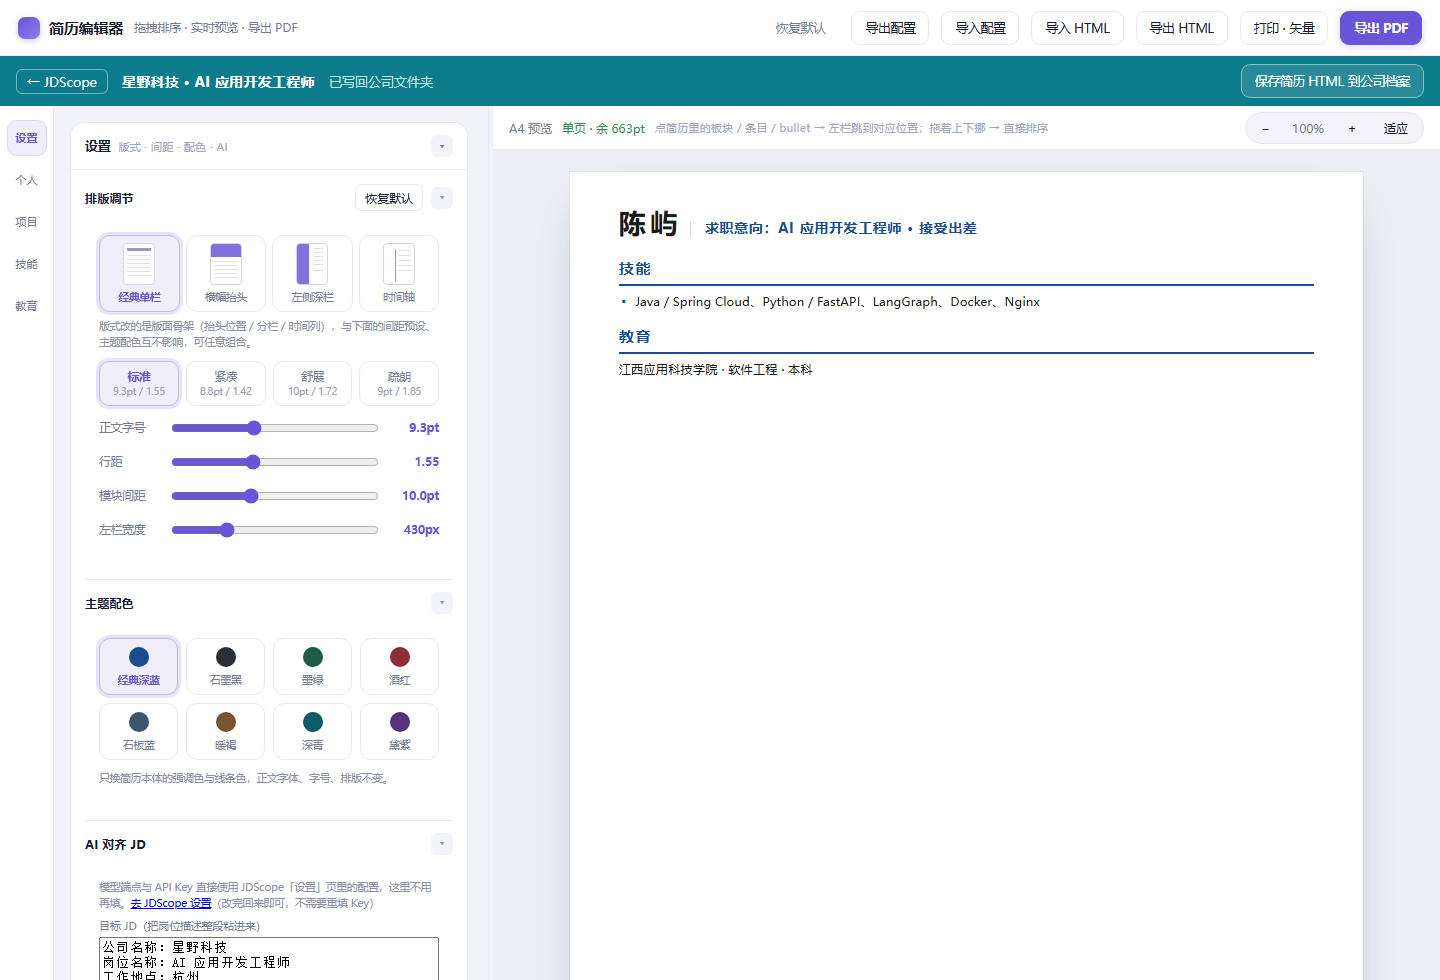
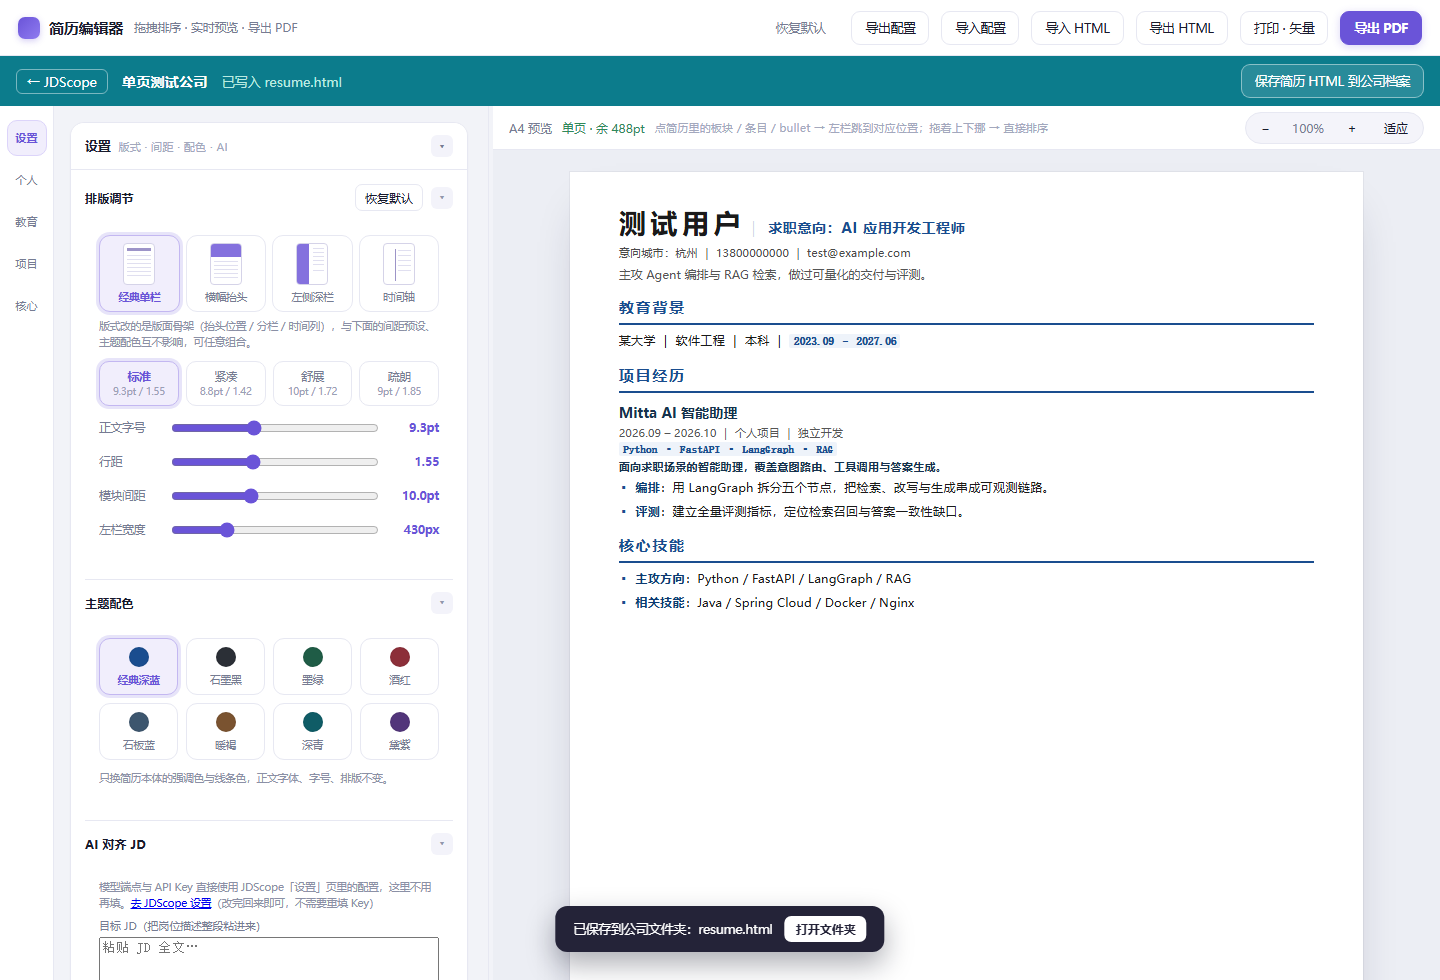
feat: 打印空白页修复、岗位信息编辑与导出后打开文件夹

diff --git a/app/web/js/pages/jobs.js b/app/web/js/pages/jobs.js
@@ -13,7 +13,9 @@ export const Jobs = {
   setup() {
     const s = state;
     const report = ref(null);
-    const busy = ref({ analyze: false, suggest: false, export: false, batch: 0, company: false });
+    const busy = ref({ analyze: false, suggest: false, export: false, batch: 0, company: false, edit: false });
+    const editing = ref(false);
+    const form = ref({ company: "", title: "", city: "", source: "", url: "" });
 
     let timer = null;
     watch(() => s.jobQuery, () => {
@@ -58,6 +60,47 @@ export const Jobs = {
         await loadBoot();
         await loadJobs();
       } catch (err) { toast(err.message, "err"); }
+    };
+
+    const startEdit = () => {
+      const job = s.detail.job;
+      form.value = {
+        company: job.company || "",
+        title: job.title || "",
+        city: job.city || "",
+        source: job.source || "",
+        url: job.url || "",
+      };
+      editing.value = true;
+    };
+
+    const cancelEdit = () => { editing.value = false; };
+
+    const toggleEdit = () => { if (editing.value) editing.value = false; else startEdit(); };
+
+    const saveEdit = async () => {
+      const id = s.detail.job.id;
+      const f = form.value;
+      if (!f.company.trim() || !f.title.trim()) {
+        toast("公司名和岗位名不能为空", "err");
+        return;
+      }
+      busy.value.edit = true;
+      try {
+        await api.updateJob(id, {
+          company: f.company.trim(),
+          title: f.title.trim(),
+          city: f.city.trim(),
+          source: f.source.trim(),
+          url: f.url.trim(),
+        });
+        editing.value = false;
+        await openJob(id);
+        await loadJobs();
+        await loadBoot();
+        toast("岗位信息已更新", "ok");
+      } catch (err) { toast(err.message, "err"); }
+      finally { busy.value.edit = false; }
     };
 
     const reanalyze = async () => {
@@ -150,6 +193,7 @@ export const Jobs = {
 
     const open = async (id) => {
       report.value = null;
+      editing.value = false;
       try { await openJob(id); } catch (err) { toast(err.message, "err"); }
     };
 
@@ -163,9 +207,10 @@ export const Jobs = {
     onBeforeUnmount(() => document.removeEventListener("keydown", onKey));
 
     return {
-      s, report, busy, missingOf, dimList, reqGroups, coverage,
+      s, report, busy, editing, form, missingOf, dimList, reqGroups, coverage,
       STATUS_LABEL, PRIO_LABEL, STATE_LABEL, chipOf, pct, shortDate,
-      setStatus, reanalyze, reanalyzeAll, suggest, exportReport, remove, adopt, open, closeDetail,
+      setStatus, startEdit, cancelEdit, toggleEdit, saveEdit,
+      reanalyze, reanalyzeAll, suggest, exportReport, remove, adopt, open, closeDetail,
       makeCompany,
     };
   },
@@ -244,6 +289,32 @@ export const Jobs = {
         </div>
 
         <div class="drawer-body">
+          <div v-if="editing" class="edit-panel">
+            <div class="section-title" style="margin-top:0">修改岗位信息</div>
+            <div class="form-grid">
+              <label class="field">公司名
+                <input v-model="form.company" placeholder="公司名称">
+              </label>
+              <label class="field">岗位名
+                <input v-model="form.title" placeholder="如 AI 应用开发工程师">
+              </label>
+              <label class="field">城市
+                <input v-model="form.city" placeholder="如 杭州">
+              </label>
+              <label class="field">来源
+                <input v-model="form.source" placeholder="官网 / BOSS / 内推">
+              </label>
+              <label class="field span2">链接
+                <input v-model="form.url" placeholder="岗位链接（可选）">
+              </label>
+            </div>
+            <div class="row-gap" style="margin-top:12px">
+              <button class="primary" @click="saveEdit" :disabled="busy.edit">{{ busy.edit ? '保存中…' : '保存修改' }}</button>
+              <button class="ghost" @click="cancelEdit" :disabled="busy.edit">取消</button>
+              <span class="hint">只改元信息，不会重算 JD 需求；改岗位名不会重命名已建的公司文件夹。</span>
+            </div>
+          </div>
+
           <div class="dims">
             <div class="dim" v-for="d in dimList" :key="d.key">
               <div class="k">{{ d.label }}</div>
@@ -261,6 +332,7 @@ export const Jobs = {
           </div>
 
           <div class="row-gap mt12">
+            <button class="ghost" @click="toggleEdit">{{ editing ? '收起编辑' : '编辑信息' }}</button>
             <select :value="s.detail.job.status" style="width:132px" @change="setStatus($event.target.value)">
               <option v-for="(label, key) in STATUS_LABEL" :key="key" :value="key">{{ label }}</option>
             </select>

diff --git a/app/web/editor/index.html b/app/web/editor/index.html
@@ -373,9 +373,13 @@ body.printing #page h3,body.printing #page h3:hover{background:transparent!impor
 
 /* 提示条 */
 .toast{position:fixed;left:50%;bottom:28px;transform:translateX(-50%) translateY(20px);
+  display:flex;align-items:center;gap:12px;max-width:min(760px,90vw);
   background:#242338;color:#fff;font-size:12.5px;padding:10px 18px;border-radius:12px;opacity:0;
   pointer-events:none;transition:.25s;z-index:20;box-shadow:0 12px 28px rgba(16,18,36,.34)}
 .toast.show{opacity:1;transform:translateX(-50%) translateY(0)}
+.toast .act{pointer-events:auto;flex:none;border:0;border-radius:7px;padding:5px 11px;
+  background:#fff;color:#242338;font-size:12px;font-weight:650;cursor:pointer}
+.toast .act:hover{background:#e8f4f6;color:#0c7c8c}
 
 /* 打印：只输出 A4 页面 */
 @media (max-width:1100px){
@@ -387,7 +391,7 @@ body.printing #page h3,body.printing #page h3:hover{background:transparent!impor
 }
 @media print{
   @page{size:A4;margin:0}
-  html,body{margin:0!important;padding:0!important;background:#fff}
+  html,body{margin:0!important;padding:0!important;background:#fff;height:auto!important;min-height:0!important}
   body{overflow:visible}
   /* 浏览器默认不打印背景色，技术栈底条会整条消失；对页面内所有节点强制保留底色 */
   .page,.page *{-webkit-print-color-adjust:exact;print-color-adjust:exact}
@@ -396,7 +400,10 @@ body.printing #page h3,body.printing #page h3:hover{background:transparent!impor
   .preview{background:#fff;display:block;overflow:visible;height:auto;padding:0}
   .pv-scroll{padding:0;overflow:visible;display:block;cursor:auto}
   .page-wrap{transform:none!important;width:auto!important;height:auto!important;margin:0!important}
-  .page{position:static!important;transform:none!important;box-shadow:none!important;margin:0;width:210mm;max-width:210mm}
+  /* 关键：屏幕上的 min-height:297mm 只用于撑出整页观感；打印时它会让 A4 盒子正好顶到页底，
+     浏览器按 0.1px 的舍入差判成溢出，于是多一张空白页。打印必须交还给内容自身高度。 */
+  .page{position:static!important;transform:none!important;box-shadow:none!important;margin:0;
+    width:210mm;max-width:210mm;min-height:0!important;height:auto!important;break-after:auto;page-break-after:auto}
   /* 打印瞬间鼠标可能恰好压在纸面上：hover 底色一律不许进 PDF */
   .page .r-sec,.page .r-sec:hover,.page li,.page li:hover,
   .page h3,.page h3:hover{background:transparent!important;cursor:auto}
@@ -862,12 +869,26 @@ function mdInline(text){
 function richText(text){
   return mdInline(text);
 }
-function toast(msg){
+function toast(msg, action){
   const el = document.getElementById('toast');
-  el.textContent = msg;
+  el.innerHTML = '';
+  const span = document.createElement('span');
+  span.textContent = msg;
+  el.appendChild(span);
+  if(action && action.label && typeof action.onClick === 'function'){
+    const btn = document.createElement('button');
+    btn.type = 'button';
+    btn.className = 'act';
+    btn.textContent = action.label;
+    btn.addEventListener('click', (e)=>{
+      e.stopPropagation();
+      action.onClick();
+    });
+    el.appendChild(btn);
+  }
   el.classList.add('show');
   clearTimeout(el._t);
-  el._t = setTimeout(()=> el.classList.remove('show'), 1900);
+  el._t = setTimeout(()=> el.classList.remove('show'), action ? 5200 : 1900);
 }
 function setPath(path, val){
   const parts = path.split('.');
@@ -3134,6 +3155,16 @@ applyZoom();
     save();
   }
 
+  const openCompanyFolder = async ()=>{
+    try{
+      const r = await fetch('/api/companies/' + COMPANY_ID + '/open', { method:'POST' });
+      const j = await r.json().catch(()=>({}));
+      if(!r.ok || j.error) toast('打不开文件夹：' + (j.error || ('HTTP ' + r.status)));
+    }catch(e){
+      toast('打不开文件夹：' + e.message);
+    }
+  };
+
   document.getElementById('btnCompanyExport').addEventListener('click', async ()=>{
     const btn = document.getElementById('btnCompanyExport');
     btn.disabled = true;
@@ -3146,7 +3177,8 @@ applyZoom();
       const j = await r.json().catch(()=>({}));
       if(r.ok && !j.error){
         setSyncState('已写入 resume.html', 'ok');
-        toast('已保存到公司文件夹：resume.html');
+        toast('已保存到公司文件夹：resume.html',
+          { label:'打开文件夹', onClick: openCompanyFolder });
       }else{
         setSyncState('导出失败：' + (j.error || r.status), 'err');
         toast('导出失败：' + (j.error || ('HTTP ' + r.status)));

diff --git a/app/web/css/app.css b/app/web/css/app.css
@@ -306,6 +306,11 @@ td.num { font-variant-numeric: tabular-nums; }
 }
 .drawer-close:hover { border-color: var(--accent); color: var(--accent); }
 .drawer-body { overflow-y: auto; padding: 16px 20px 40px; }
+.edit-panel {
+  margin-bottom: 18px; padding: 0 16px 16px;
+  background: #f7f9fa; border: 1px solid var(--line); border-radius: 10px;
+}
+.edit-panel .form-grid { padding-left: 0; padding-right: 0; }
 
 .section-title {
   display: flex; align-items: center; gap: 8px;

diff --git a/tests/test_job_edit.py b/tests/test_job_edit.py
@@ -1,0 +1,82 @@
+"""岗位详情编辑：公司名 / 岗位名等元信息可改，空值拒绝。"""
+
+from __future__ import annotations
+
+import os
+import shutil
+import sys
+import tempfile
+import unittest
+from pathlib import Path
+
+ROOT = Path(__file__).resolve().parent.parent
+sys.path.insert(0, str(ROOT))
+
+from app import config, db  # noqa: E402
+
+
+class FakeMatch:
+    def __init__(self, path: str):
+        self.path = path
+
+    def group(self, _n=0):
+        return self.path
+
+
+class TestJobEdit(unittest.TestCase):
+    def setUp(self):
+        self._saved = {k: os.environ.get(k) for k in ("JDSCOPE_CONFIG", "JDSCOPE_HOME")}
+        self._tmp = tempfile.mkdtemp(prefix="jdscope-jedit-")
+        os.environ["JDSCOPE_CONFIG"] = self._tmp
+        os.environ.pop("JDSCOPE_HOME", None)
+        from app.api import Api
+
+        config.ensure_dirs(config.data_home())
+        self.api = Api()
+        conn = db.connect()
+        try:
+            self.job_id = conn.execute(
+                "INSERT INTO jobs(company,title,city,url,jd_raw,status,decision,score,score_json,"
+                "constraint_state,verdict,created_at,updated_at) VALUES(?,?,?,?,?,?,?,?,?,?,?,?,?)",
+                ("旧公司", "旧岗位", "南昌", "https://example.com/old",
+                 "岗位职责：负责 Agent 应用开发。\n任职要求：熟悉 Python。",
+                 "new", "go", 70.0, "{}", "[]", "建议投", db.now(), db.now()),
+            ).lastrowid
+            conn.commit()
+        finally:
+            conn.close()
+
+    def tearDown(self):
+        for key, value in self._saved.items():
+            if value is None:
+                os.environ.pop(key, None)
+            else:
+                os.environ[key] = value
+        shutil.rmtree(self._tmp, ignore_errors=True)
+
+    def test_patch_company_title_and_meta(self):
+        out = self.api.patch_job(
+            FakeMatch(f"/api/jobs/{self.job_id}"),
+            {"company": " 新公司 ", "title": " Agent 工程师 ", "city": "杭州",
+             "source": "内推", "url": "https://example.com/new"},
+            None,
+        )
+        self.assertTrue(out.get("ok"))
+        detail = self.api.job_detail(FakeMatch(f"/api/jobs/{self.job_id}"), None, None)
+        self.assertEqual(detail["job"]["company"], "新公司")
+        self.assertEqual(detail["job"]["title"], "Agent 工程师")
+        self.assertEqual(detail["job"]["city"], "杭州")
+        self.assertEqual(detail["job"]["source"], "内推")
+        self.assertEqual(detail["job"]["url"], "https://example.com/new")
+
+    def test_blank_company_or_title_rejected(self):
+        out = self.api.patch_job(FakeMatch(f"/api/jobs/{self.job_id}"),
+                                 {"company": "   ", "title": "新岗位"}, None)
+        self.assertIn("error", out)
+        detail = self.api.job_detail(FakeMatch(f"/api/jobs/{self.job_id}"), None, None)
+        self.assertEqual(detail["job"]["company"], "旧公司")
+        self.assertEqual(detail["job"]["title"], "旧岗位")
+
+
+if __name__ == "__main__":
+    unittest.main()

diff --git a/app/api.py b/app/api.py
@@ -412,10 +412,16 @@ class Api:
         job_id = int(m.group(0).split("/")[-1])
         conn = self._conn()
         try:
-            allowed = {"status", "decision", "decision_note", "city", "url", "source"}
+            allowed = {"company", "title", "status", "decision", "decision_note",
+                       "city", "url", "source"}
+            for k in ("company", "title"):
+                if k in body and not str(body[k] or "").strip():
+                    return {"error": "公司名和岗位名不能为空"}
             for k in list(body):
                 if k in allowed:
-                    conn.execute(f"UPDATE jobs SET {k}=?, updated_at=? WHERE id=?", (body[k], db.now(), job_id))
+                    value = str(body[k]).strip() if isinstance(body[k], str) else body[k]
+                    conn.execute(f"UPDATE jobs SET {k}=?, updated_at=? WHERE id=?",
+                                 (value, db.now(), job_id))
             conn.commit()
             return {"ok": True}
         finally:

diff --git a/app/config.py b/app/config.py
@@ -21,7 +21,7 @@ import sys
 from pathlib import Path
 
 APP_NAME = "JDScope"
-APP_VERSION = "0.3.1"
+APP_VERSION = "0.3.2"
 
 # 仓库内的静态资源根目录（打包后为 PyInstaller 解包目录）
 BASE_DIR = Path(getattr(sys, "_MEIPASS", Path(__file__).resolve().parent.parent))

diff --git a/README.md b/README.md
@@ -55,6 +55,7 @@ JDScope 只做中间这一层：**决策层**。
 | 交付物 | 一键生成 Markdown 报告：结论 / 四维 / 选型理由 / 关键词覆盖 / 缺口 / 改动摘要 / 面试提示 |
 | 可选模型 | OpenAI 兼容端点（默认 DeepSeek），用于改写建议与面试应答口径；不配置也能用 |
 | AI 只出候选 | JD 入库的 AI 解析、改写建议、面试口径都先把条目摆出来，**勾选/点「采用」才入库**；没勾的不参与打分，也不改台账 |
+| 岗位信息可改 | 详情抽屉里点「编辑信息」可改公司名、岗位名、城市、来源与链接，保存后列表与详情同步刷新；空公司名 / 空岗位名会被拒绝 |
 | 一条龙 | 岗位详情 →「建公司档案 / 改简历」→ 内嵌编辑器（自动带上 JD、策略与基底）→ 导出 HTML 回公司文件夹 |
 | 简历工作台 | 侧栏常驻入口，直接打开 `resumes/_通用简历/` 的母版；不属于任何公司，随时改、随时导出，也是各公司定制版的起点 |
 | 公司档案 | 每家公司一个文件夹：`jd.txt` / `strategy.md` / `resume.json` / `resume.html` / `report.md`，同名自动加序号，删除记录不删文件 |
@@ -126,7 +127,8 @@ backups\       预留
 | 进入页面 | 拉 `/api/companies/<id>/resume` 的 `resume.json`；没有就拉建档时留下的 `base.html`，用编辑器自带的 `parseResumeHtml()` 还原成可编辑结构，然后删掉 `base.html` |
 | 编辑 | 复用编辑器原有的 `save()`（400ms 防抖），额外 900ms 防抖把状态 POST 回公司文件夹；**API Key 不落盘，也不下发到页面** |
 | AI 对齐 JD | 嵌入模式走同源代理 `POST /api/editor/chat`，服务端直接用「设置」里的 Base URL / 模型 / Key；编辑器不再单独填 Key，公司 `jd.txt` 自动灌进「目标 JD」 |
-| 导出 | 顶栏「保存简历 HTML 到公司档案」把 `exportHtmlSource()` 的成品写到 `resume.html` |
+| 导出 | 顶栏「保存简历 HTML 到公司档案」把 `exportHtmlSource()` 的成品写到 `resume.html`；嵌入模式的提示条右侧带「打开文件夹」，一键跳到公司档案目录 |
+| 打印 | 「打印 · 矢量」按 A4 输出；打印时归零页盒子的 `min-height`，内容未满一页不会多出空白页 |
 | 返回 | 顶栏左侧「← JDScope」回岗位台账 |
 
 事实源是 `resume.json`（可继续编辑），`resume.html` 是投递用快照。这样同一份内容既能反复改，也能直接拿去投。
@@ -161,7 +163,7 @@ powershell -ExecutionPolicy Bypass -File build\build_exe.ps1
 python -m unittest discover -s tests -v
 ```
 
-覆盖词表最长匹配、JD 三段切分、硬性条件判定、基底选型、聚合统计、报告结构、数据目录切换（迁移 / 接管 / 冲突拒绝 / 环境变量锁定 / 指针损坏回退）、公司档案（建档 / 同名加序号 / 简历回写 / 导出 / 删除留档 / 通用母版）、AI 候选合并与重算保留、嵌入编辑器模型代理与 JD 回灌、v1 → v3 迁移，以及 HTTP 接口链路。共 60 个用例。
+覆盖词表最长匹配、JD 三段切分、硬性条件判定、基底选型、聚合统计、报告结构、数据目录切换（迁移 / 接管 / 冲突拒绝 / 环境变量锁定 / 指针损坏回退）、公司档案（建档 / 同名加序号 / 简历回写 / 导出 / 删除留档 / 通用母版）、AI 候选合并与重算保留、岗位元信息编辑、嵌入编辑器模型代理与 JD 回灌、v1 → v3 迁移，以及 HTTP 接口链路。共 62 个用例。
 
 ## 目录
 

diff --git a/devlog/2026-11-21-ai-companies-editor.md b/devlog/2026-11-21-ai-companies-editor.md
@@ -94,9 +94,31 @@ base.html       HTML 基底原文，编辑器首次导入后删除
 6. JD 预灌最初放在 `if(loaded)` 渲染之后，`state.ai.jd` 有值但设置面板已画完，输入框仍显示空占位；改为在 `renderEditor()` 之前赋值，空白档案分支补一次 `renderEditor()`。
 7. 代理错误里 `error` 是字符串而不是 OpenAI 的 `{error:{message}}`，前端取值要兼容两种形状，否则只显示「HTTP 400」。
 
+## 7. 补充：打印空白页、岗位信息编辑、导出后打开文件夹
+
+**打印一页内容变成两页**
+
+- 现象：A4 预览显示「单页 · 余 488pt」，打印机 / 另存为 PDF 却出两页，第二页是空白。
+- 根因不是内容超长，而是打印 CSS 仍保留 `.page { min-height:297mm }`：A4 盒子的高度正好等于纸张高度，浏览器按 0.1px 的舍入差判成溢出，末尾多切一页。
+- 修复：`@media print` 里把 `.page` 的 `min-height` / `height` 交还内容（`min-height:0; height:auto`），同时给 `html/body` 归零高度。
+- 复现/验收：同一份 488pt 简历，修复前 `chrome --print-to-pdf` 生成 2 页，修复后 1 页。
+
+**岗位信息可编辑**
+
+- 详情抽屉新增「编辑信息」：公司名、岗位名、城市、来源、链接都能改；保存后 `PATCH /api/jobs/<id>` 更新并刷新详情与列表。
+- 后端原来只允许 status / decision / city / url / source，这次把 `company` / `title` 加入白名单，并对空公司名、空岗位名直接拒绝。
+- 只改元信息，不重算 JD 需求；改岗位名不会重命名已建的公司文件夹，避免误动用户文件。
+
+**导出后的提示条带文件夹按钮**
+
+- 编辑器提示条改成可带一个右侧动作按钮；`toast(msg, action)` 生成按钮并延长到 5.2s，按钮单独 `pointer-events:auto`，不影响其他 toast 点击穿透。
+- 「保存简历 HTML 到公司档案」成功后，提示条右侧出现「打开文件夹」，调用 `POST /api/companies/<id>/open` 直接打开公司档案目录。
+- 打印媒体里继续隐藏 `.toast`，按钮不会进 PDF。
+
 ## 验收
 
-- `python -m unittest discover -s tests`：**60 用例全绿**（新增 4：代理无 Key 拒绝、代理读 App 设置、非法 messages、公司 JD 回灌）。
+- `python -m unittest discover -s tests`：**62 用例全绿**（新增岗位编辑 2 个：元信息更新、空值拒绝）。
 - 本地 stub 模型端到端：`POST /api/settings` 指向 `127.0.0.1:8899/v1` → `POST /api/editor/chat` 返回 `{"ok":true,"content":"{\"changes\": []}"}`。
+- 打印：修复前 2 页 / 修复后 1 页（同一份 488pt 简历，Chrome `--print-to-pdf`）。
 - 早前端到端实测：HTML 基底 → 建档 → 打开编辑器 → 自动解析出 2 个模块（姓名「张三」）→ `resume.json` 落盘 3555B → `base.html` 已删除。
 - 截图：`docs/ui-companies.png`、`docs/ui-editor.png`；另以 1920×1080 检查宽屏铺满。
